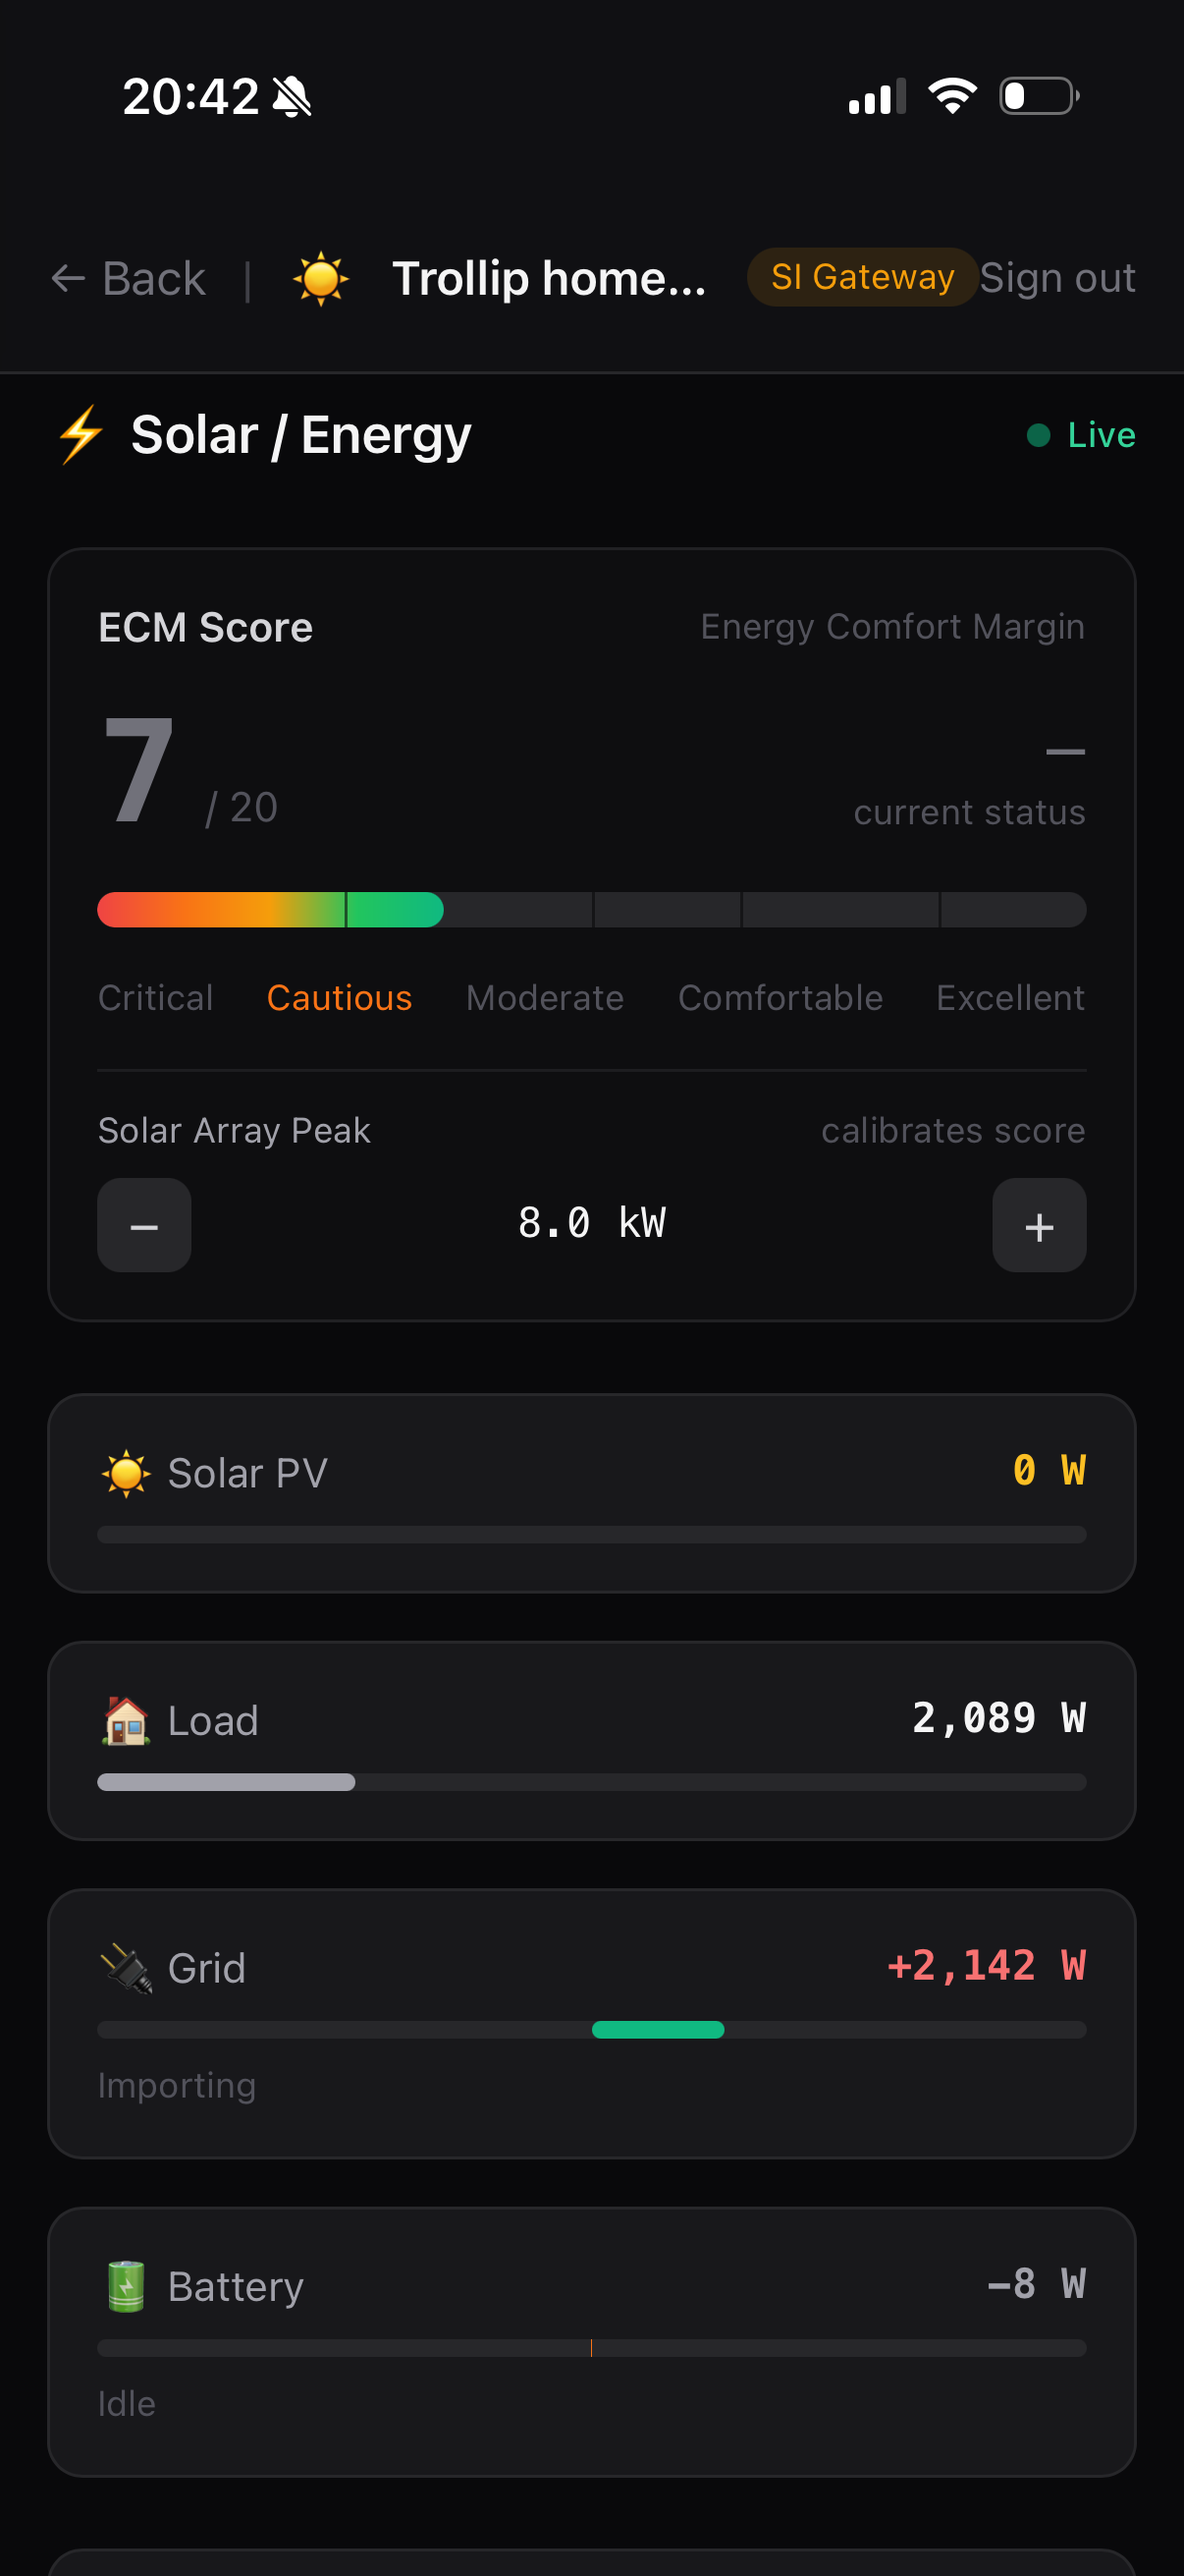
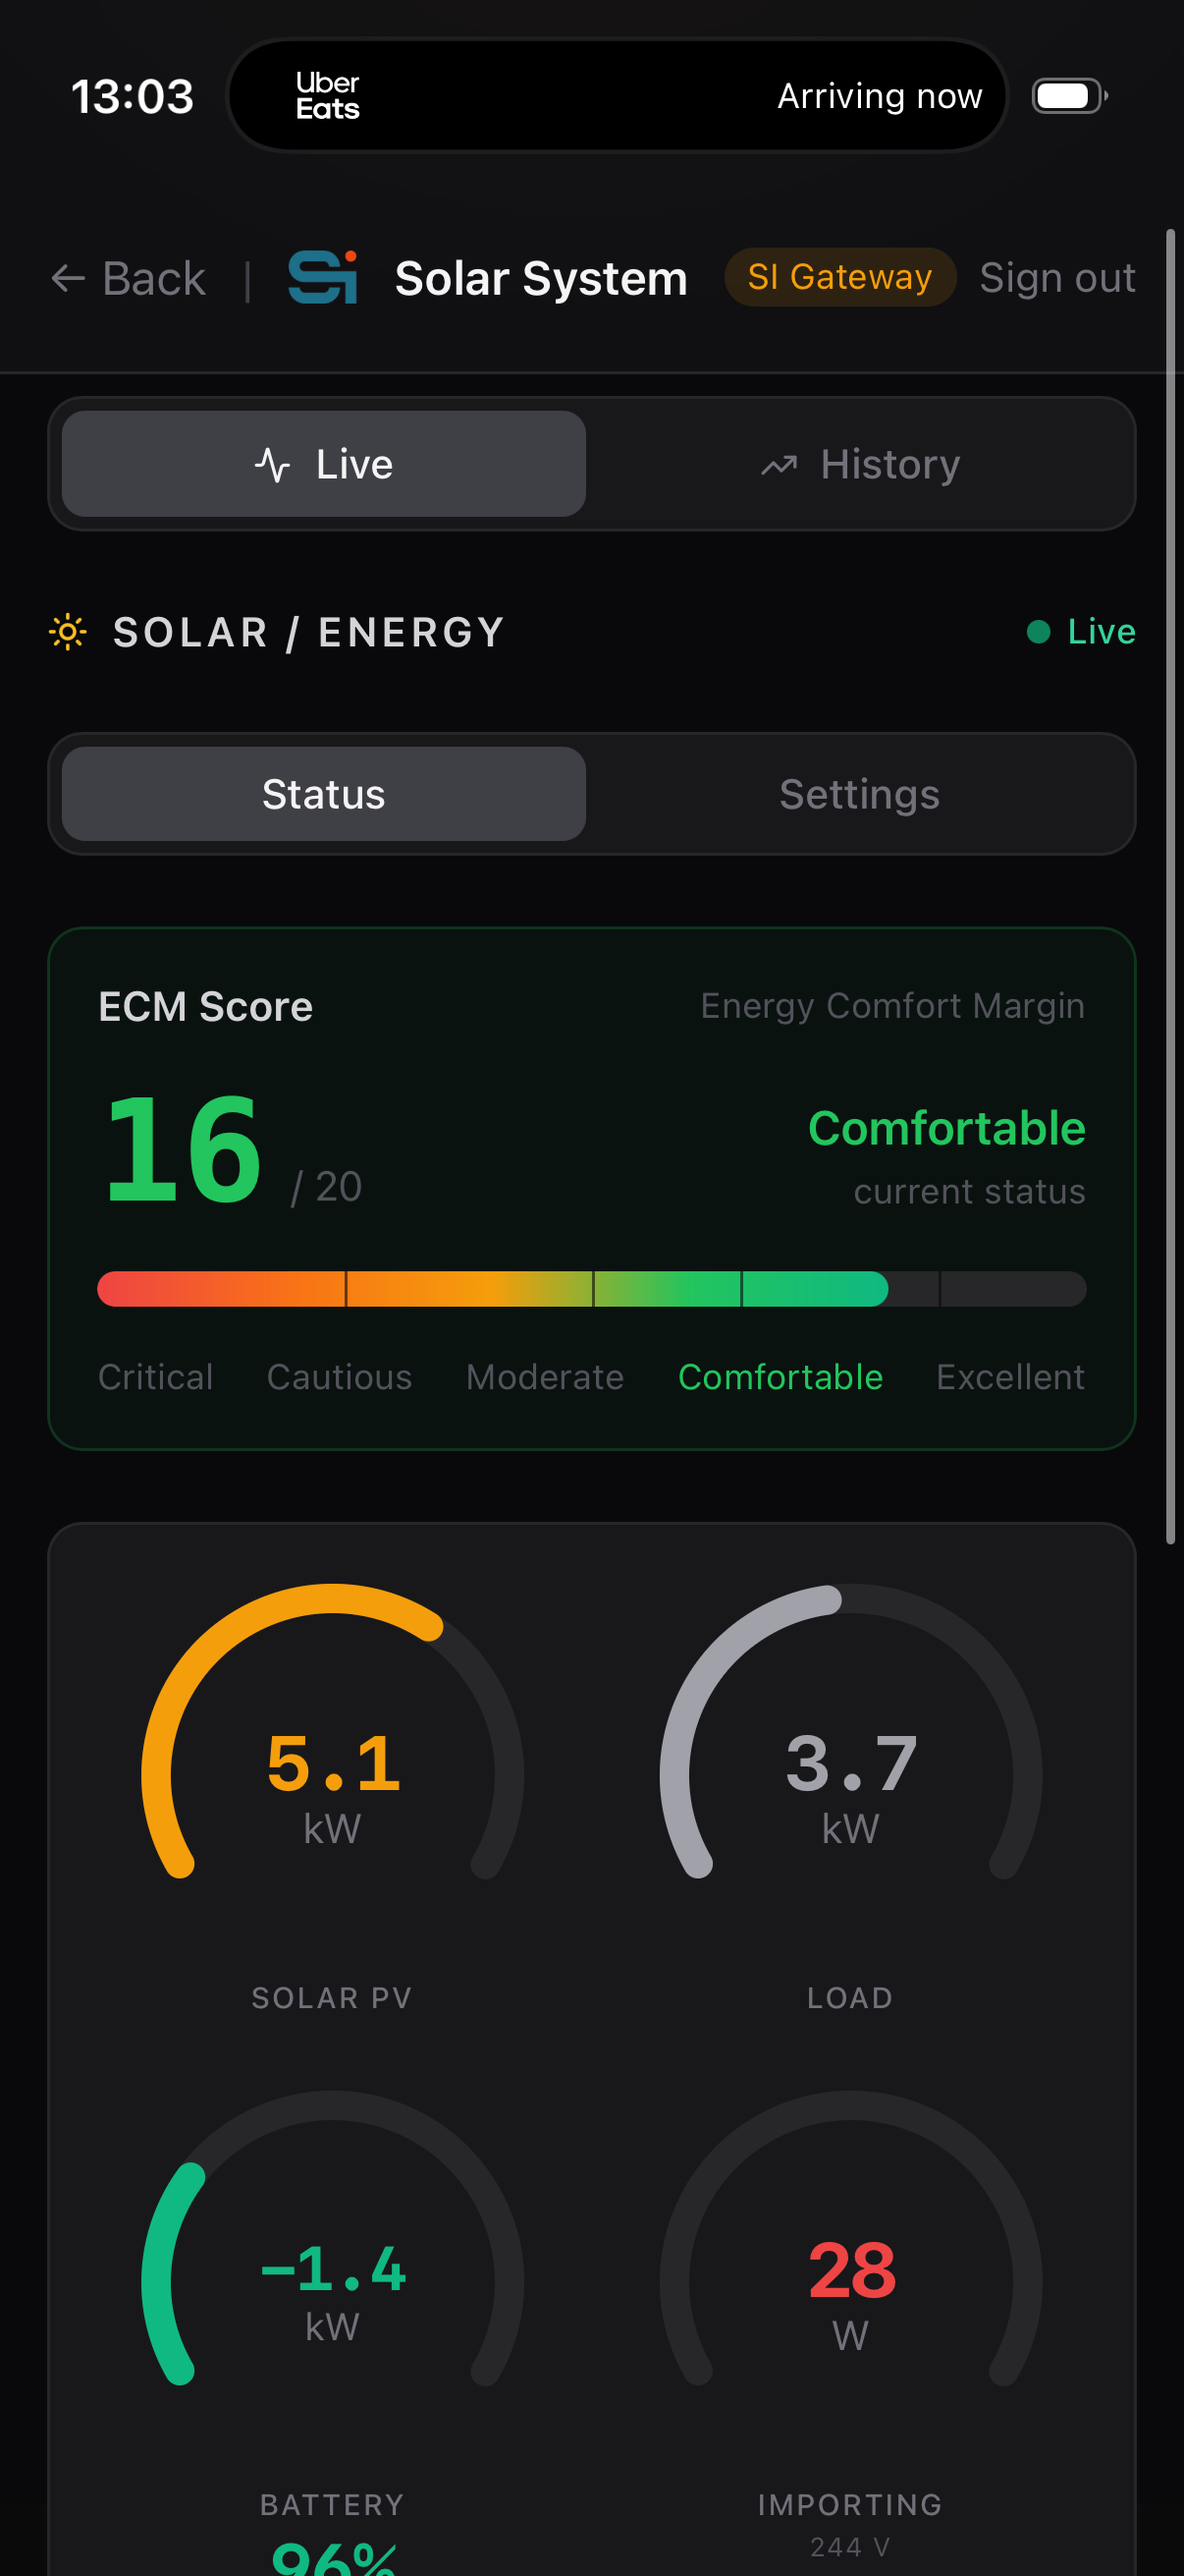
feat: add 4 real screenshots and hardware section to SI Gateway page

diff --git a/si-gateway.html b/si-gateway.html
@@ -209,23 +209,37 @@
   <div class="wrap" style="text-align:center;">
     <p class="section-label" style="justify-content:center;display:flex;">App Preview</p>
     <h2 style="font-size:clamp(20px,3vw,28px);font-weight:800;letter-spacing:-0.02em;margin-bottom:10px;">SI Gateway in your hand.</h2>
-    <p style="color:var(--muted);font-size:15px;max-width:480px;margin:0 auto 36px;line-height:1.6;">
+    <p style="color:var(--muted);font-size:15px;max-width:540px;margin:0 auto 36px;line-height:1.6;">
       Live solar production, ECM score, battery state and grid status — all updated in real time from anywhere.
     </p>
     <div class="app-gallery" style="justify-content:center;">
       <div class="app-gallery-item">
-        <div class="phone-frame" style="width:190px;">
-          <img src="/screenshots/resized/gateway-1.PNG" alt="SI Gateway — ECM Score and live solar energy view"
+        <div class="phone-frame" style="width:175px;">
+          <img src="/screenshots/resized/gateway-1.PNG" alt="SI Gateway — ECM Score 16/20, Solar 5.1kW, Load 3.7kW, live"
                onerror="this.closest('.app-gallery-item').style.display='none'" />
         </div>
-        <span class="cap">ECM Score, solar, load &amp; grid — live</span>
+        <span class="cap">ECM 16/20 · Solar 5.1 kW · Load 3.7 kW</span>
       </div>
       <div class="app-gallery-item">
-        <div class="phone-frame" style="width:190px;">
-          <img src="/screenshots/resized/gateway-2.PNG" alt="SI Gateway — Battery SOC, daily totals and inverter controls"
+        <div class="phone-frame" style="width:175px;">
+          <img src="/screenshots/resized/gateway-2.PNG" alt="SI Gateway — inverter controls and time-of-use SOC targets"
                onerror="this.closest('.app-gallery-item').style.display='none'" />
         </div>
-        <span class="cap">Battery SOC, daily totals &amp; inverter controls</span>
+        <span class="cap">Inverter controls &amp; time-of-use SOC targets</span>
+      </div>
+      <div class="app-gallery-item">
+        <div class="phone-frame" style="width:175px;">
+          <img src="/screenshots/resized/gateway-3.PNG" alt="SI Gateway — today's power chart and battery SOC history"
+               onerror="this.closest('.app-gallery-item').style.display='none'" />
+        </div>
+        <span class="cap">Power chart · Battery SOC · ECM history</span>
+      </div>
+      <div class="app-gallery-item">
+        <div class="phone-frame" style="width:175px;">
+          <img src="/screenshots/resized/gateway-4.PNG" alt="SI Gateway — 7-day energy summary: 101kWh PV, 157kWh grid import"
+               onerror="this.closest('.app-gallery-item').style.display='none'" />
+        </div>
+        <span class="cap">7-day summary · 101 kWh PV · Grid import</span>
       </div>
     </div>
 
@@ -243,6 +257,57 @@
       </p>
     </div>
 
+  </div>
+</section>
+
+<!-- ── Hardware ─────────────────────────────────────────────────────────────── -->
+<section style="background:var(--panel);border-top:1px solid var(--line);border-bottom:1px solid var(--line);">
+  <div class="wrap">
+    <p class="section-label">The Hardware</p>
+    <h2 style="font-size:clamp(20px,3vw,28px);font-weight:800;letter-spacing:-0.02em;margin-bottom:10px;">Small box. Big picture.</h2>
+    <p style="color:var(--muted);font-size:15px;max-width:560px;line-height:1.6;margin-bottom:36px;">
+      The SI Gateway bridge clips onto your inverter's RS485 port and connects over Wi-Fi. No cloud subscription required — it runs locally and pushes data in real time. Everything in the box: bridge unit, power supply, and patch cable.
+    </p>
+    <div style="display:flex;gap:40px;align-items:center;flex-wrap:wrap;">
+
+      <!-- Device photo -->
+      <div style="flex:1;min-width:260px;">
+        <img src="/screenshots/resized/gateway-device.jpg"
+             alt="SI Gateway hardware — bridge unit, power supply and ethernet cable"
+             style="width:100%;max-width:600px;border-radius:14px;box-shadow:0 8px 32px rgba(0,0,0,0.4);"
+             onerror="this.closest('div').style.display='none'" />
+        <div style="font-size:11px;color:var(--muted);margin-top:10px;">SI Gateway · power supply · CAT5 patch cable (included)</div>
+      </div>
+
+      <!-- Key specs -->
+      <div style="display:flex;flex-direction:column;gap:10px;min-width:220px;">
+        <div style="background:var(--bg);border:1px solid var(--line);border-radius:10px;padding:14px 18px;display:flex;justify-content:space-between;align-items:center;">
+          <span style="font-size:13px;color:var(--muted);">Interface</span>
+          <span style="font-family:var(--mono);font-size:15px;font-weight:700;color:var(--text);">RS485 Modbus</span>
+        </div>
+        <div style="background:var(--bg);border:1px solid var(--line);border-radius:10px;padding:14px 18px;display:flex;justify-content:space-between;align-items:center;">
+          <span style="font-size:13px;color:var(--muted);">Connectivity</span>
+          <span style="font-family:var(--mono);font-size:15px;font-weight:700;color:var(--text);">Wi-Fi 2.4 GHz</span>
+        </div>
+        <div style="background:var(--bg);border:1px solid var(--line);border-radius:10px;padding:14px 18px;display:flex;justify-content:space-between;align-items:center;">
+          <span style="font-size:13px;color:var(--muted);">Poll rate</span>
+          <span style="font-family:var(--mono);font-size:15px;font-weight:700;color:var(--text);">Every 5 seconds</span>
+        </div>
+        <div style="background:var(--bg);border:1px solid var(--line);border-radius:10px;padding:14px 18px;display:flex;justify-content:space-between;align-items:center;">
+          <span style="font-size:13px;color:var(--muted);">Power supply</span>
+          <span style="font-family:var(--mono);font-size:15px;font-weight:700;color:var(--text);">Included</span>
+        </div>
+        <div style="background:var(--bg);border:1px solid var(--line);border-radius:10px;padding:14px 18px;display:flex;justify-content:space-between;align-items:center;">
+          <span style="font-size:13px;color:var(--muted);">Patch cable</span>
+          <span style="font-family:var(--mono);font-size:15px;font-weight:700;color:var(--text);">Included</span>
+        </div>
+        <div style="background:var(--bg);border:1px solid rgba(255,181,71,0.25);border-radius:10px;padding:14px 18px;display:flex;justify-content:space-between;align-items:center;">
+          <span style="font-size:13px;color:var(--muted);">Installation</span>
+          <span style="font-size:13px;font-weight:700;color:var(--gateway);">Plug &amp; play</span>
+        </div>
+      </div>
+
+    </div>
   </div>
 </section>
 
